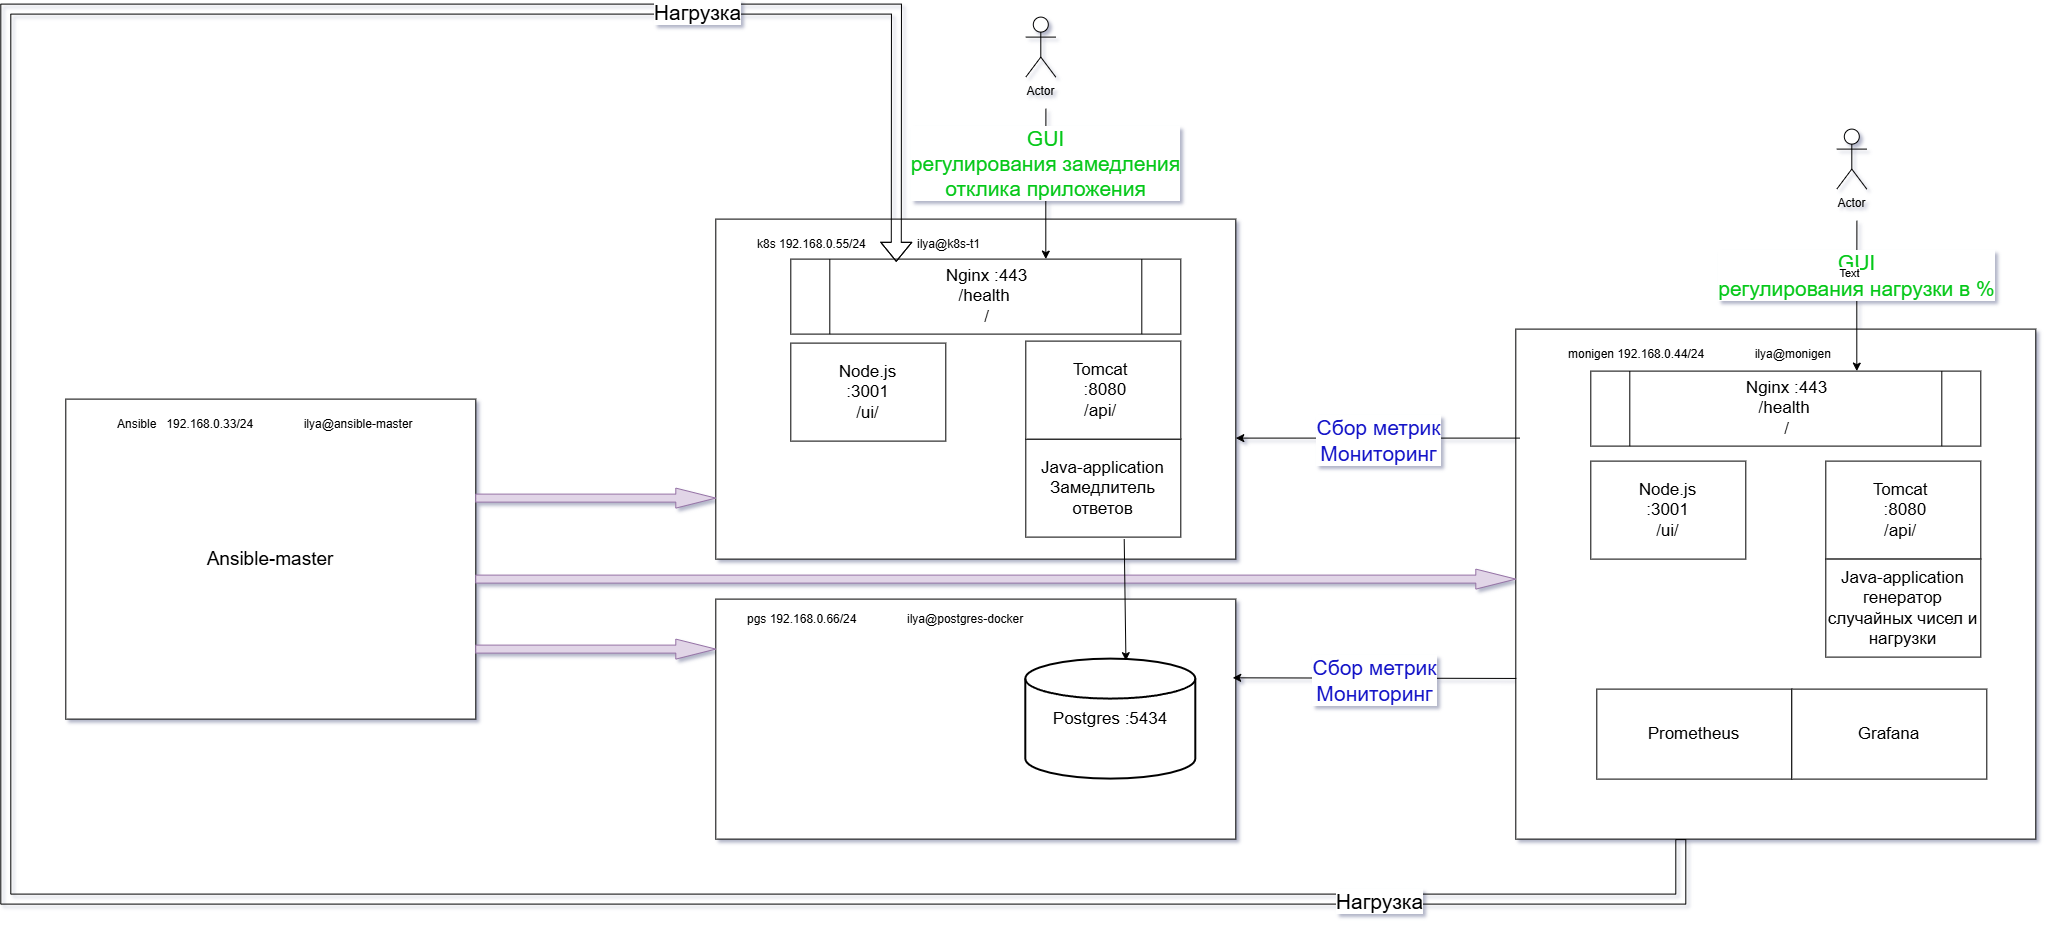
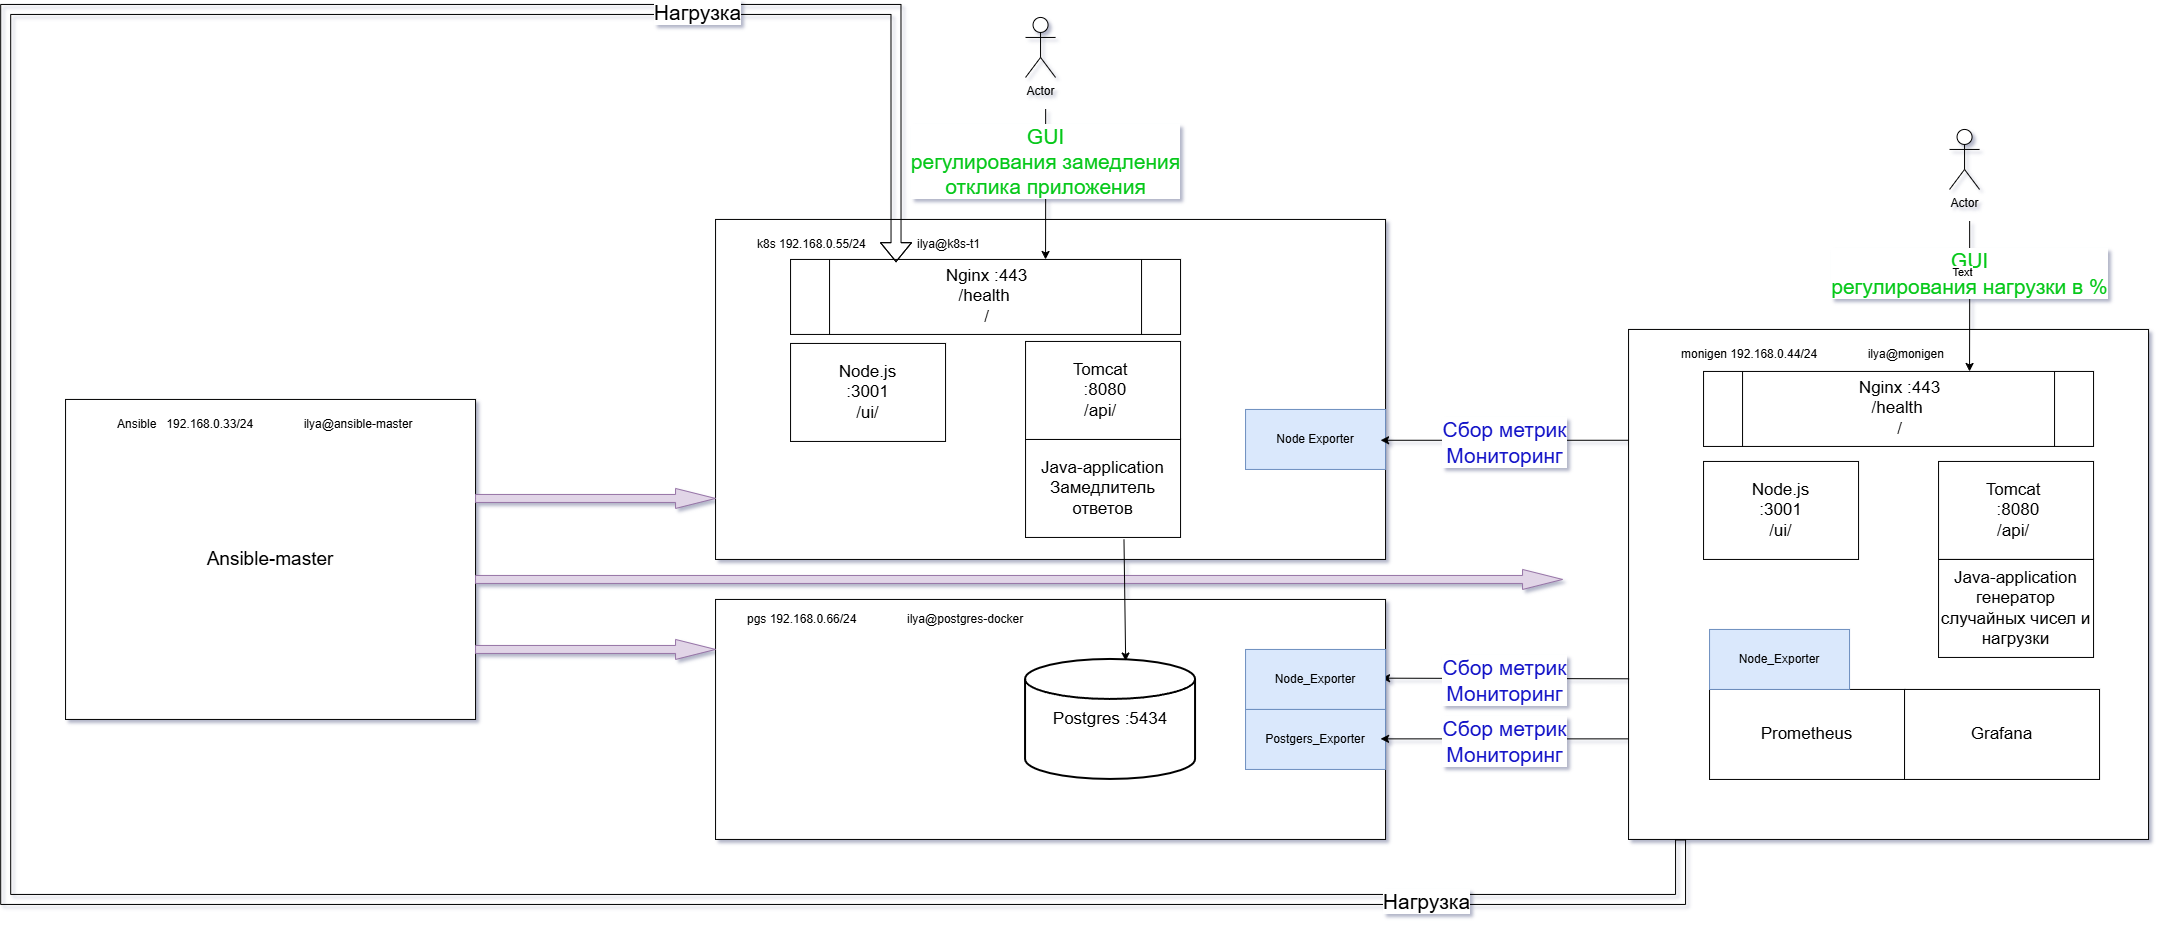
описание установки grafana+Prometheus

diff --git a/README.grafana.prometheus.md b/README.grafana.prometheus.md
@@ -1,0 +1,133 @@
+# добавить
+mkdir host_vars/monigen
+inventories/dev/hosts.yml
+# ssl
+ansible monigen -m shell -a "mkdir -p /opt/nginx/ssl && openssl req -x509 -nodes -days 365 -newkey rsa:2048 \
+-keyout /opt/nginx/ssl/server.key \
+-out /opt/nginx/ssl/server.crt \
+-subj '/C=RU/ST=Moscow/L=Moscow/O=Dev/CN=192.168.0.44'" \
+--vault-password-file ~/.ansible_vault_pass
+# ping
+ansible monigen -m ping -i inventories/dev/hosts.yml \
+--vault-password-file ~/.ansible_vault_pass
+# создадим структуру ролей для мониторинга:
+cd ~/ansible/moex_k8s/roles
+mkdir -p node_exporter/{tasks,templates,vars,handlers,defaults}
+mkdir -p postgres_exporter/{tasks,templates,vars,handlers,defaults}
+mkdir -p prometheus/{tasks,templates,vars,handlers,defaults}
+mkdir -p grafana/{tasks,templates,vars,handlers,defaults}
+mkdir -p docker_setup/{tasks,templates,vars,handlers,defaults}
+# Создадим playbook для 
+touch playbooks/docker-setup.yml
+# Создаем roles/docker_setup/tasks/main.yml:
+cat > roles/docker_setup/tasks/main.yml << 'EOF'
+# Создадим роль node_exporter:
+cat > roles/node_exporter/tasks/main.yml << 'EOF'
+# Создадим роль postgres_exporter:
+cat > roles/postgres_exporter/tasks/main.yml << 'EOF'
+# Создадим playbook для деплоя мониторинга:
+cat > playbooks/monitoring-deploy.yml << 'EOF'
+
+##### запусти роль docker_setup напрямую:
+ansible monigen -m include_role -a name=docker_setup \
+-i inventories/dev/hosts.yml \
+--vault-password-file ~/.ansible_vault_pass
+# Запусти docker-setup только для monigen:
+ansible-playbook playbooks/docker-setup.yml \
+-i inventories/dev/hosts.yml \
+--vault-password-file ~/.ansible_vault_pass \
+--limit monigen
+# Проверь, что Docker доступен на хосте:
+ansible monigen -m shell -a "docker --version" \
+--vault-password-file ~/.ansible_vault_pass
+# 
+ansible-playbook playbooks/monitoring-deploy.yml \
+--vault-password-file ~/.ansible_vault_pass
+#
+ansible-playbook playbooks/monitoring-deploy.yml \
+--vault-password-file ~/.ansible_vault_pass \
+--limit pgs
+
+###### Проверяем Node Exporter на всех хостах:
+# Проверяем k8s
+curl http://192.168.0.55:9100/metrics | head -10
+# Проверяем pgs
+curl http://192.168.0.66:9100/metrics | head -10
+# Проверяем monigen
+curl http://192.168.0.44:9100/metrics | head -10
+# Проверяем Postgres Exporter на pgs:
+curl http://192.168.0.66:9187/metrics | head -10
+#  Проверяем статус контейнера на pgs:
+ansible pgs -m shell -a "docker ps -a | grep postgres-exporter" \
+--vault-password-file ~/.ansible_vault_pass
+# Смотрим логи контейнера:
+ansible pgs -m shell -a "docker logs postgres-exporter --tail 30" \
+--vault-password-file ~/.ansible_vault_pass
+# Проверяем, какие переменные определены на pgs:
+ansible pgs -m shell -a "env | grep -E 'postgres|vault'" \
+--vault-password-file ~/.ansible_vault_pass
+# Проверяем, что PostgreSQL доступен с pgs:
+ansible pgs -m shell -a "docker exec postgres psql \
+-U appuser \
+-d appdb \
+-c 'SELECT 1'" \
+-i inventories/dev/hosts.yml \
+--vault-password-file ~/.ansible_vault_pass
+# Проверяем, какой пользователь есть в PostgreSQL:
+ansible pgs -m shell -a "docker exec postgres psql \
+-U postgres \
+-c '\du'" \
+-i inventories/dev/hosts.yml \
+--vault-password-file ~/.ansible_vault_pass
+# Проверяем переменные в vault:
+ansible-vault view group_vars/dev/vault.yml 
+--vault-password-file ~/.ansible_vault_pass
+# Проверяем, как запущен PostgreSQL:
+ansible pgs -m shell -a "docker inspect postgres | grep -A 5 Env" \
+-i inventories/dev/hosts.yml \
+--vault-password-file ~/.ansible_vault_pass
+
+###### переходим к Prometheus и Grafana на monigen
+# Создаем roles/prometheus/tasks/main.yml:
+cat > roles/prometheus/tasks/main.yml << 'EOF'
+# Создаем roles/prometheus/templates/prometheus.yml.j2:
+cat > roles/prometheus/templates/prometheus.yml.j2 << 'EOF'
+# Создаем roles/grafana/tasks/main.yml:
+cat > roles/grafana/tasks/main.yml << 'EOF'
+# Обновляем playbooks/monitoring-deploy.yml:
+cat > playbooks/monitoring-deploy.yml << 'EOF'
+# Создаем roles/prometheus/handlers/main.yml:
+cat > roles/prometheus/handlers/main.yml << 'EOF'
+# Запускаем:
+ansible-playbook playbooks/monitoring-deploy.yml \
+--vault-password-file ~/.ansible_vault_pass
+
+##### Проверяем:
+# Prometheus
+curl http://192.168.0.44:9090/api/v1/query?query=up
+# Grafana
+curl http://192.168.0.44:3000
+##### Если Grafana запустилась:
+# Открой в браузере:
+# Grafana: 
+http://192.168.0.44:3000 
+# (логин: admin, пароль: admin)
+# Prometheus: 
+http://192.168.0.44:9090
+# Проверяем статус контейнеров на monigen:
+ansible monigen -m shell \
+-a "docker ps -a" \
+-i inventories/dev/hosts.yml \
+--vault-password-file ~/.ansible_vault_pass
+# Смотрим логи Prometheus:
+ansible monigen -m shell -a "docker logs prometheus --tail 30" \
+-i inventories/dev/hosts.yml \
+--vault-password-file ~/.ansible_vault_pass
+# Смотрим логи Grafana:
+ansible monigen -m shell -a "docker logs grafana --tail 30" \
+-i inventories/dev/hosts.yml \
+--vault-password-file ~/.ansible_vault_pass
+# Проверяем, что контейнеры запустились:
+ansible monigen -m shell -a "docker ps --format 'table {{.Names}}\t{{.Status}}\t{{.Ports}}'" \
+-i inventories/dev/hosts.yml \
+--vault-password-file ~/.ansible_vault_pass
